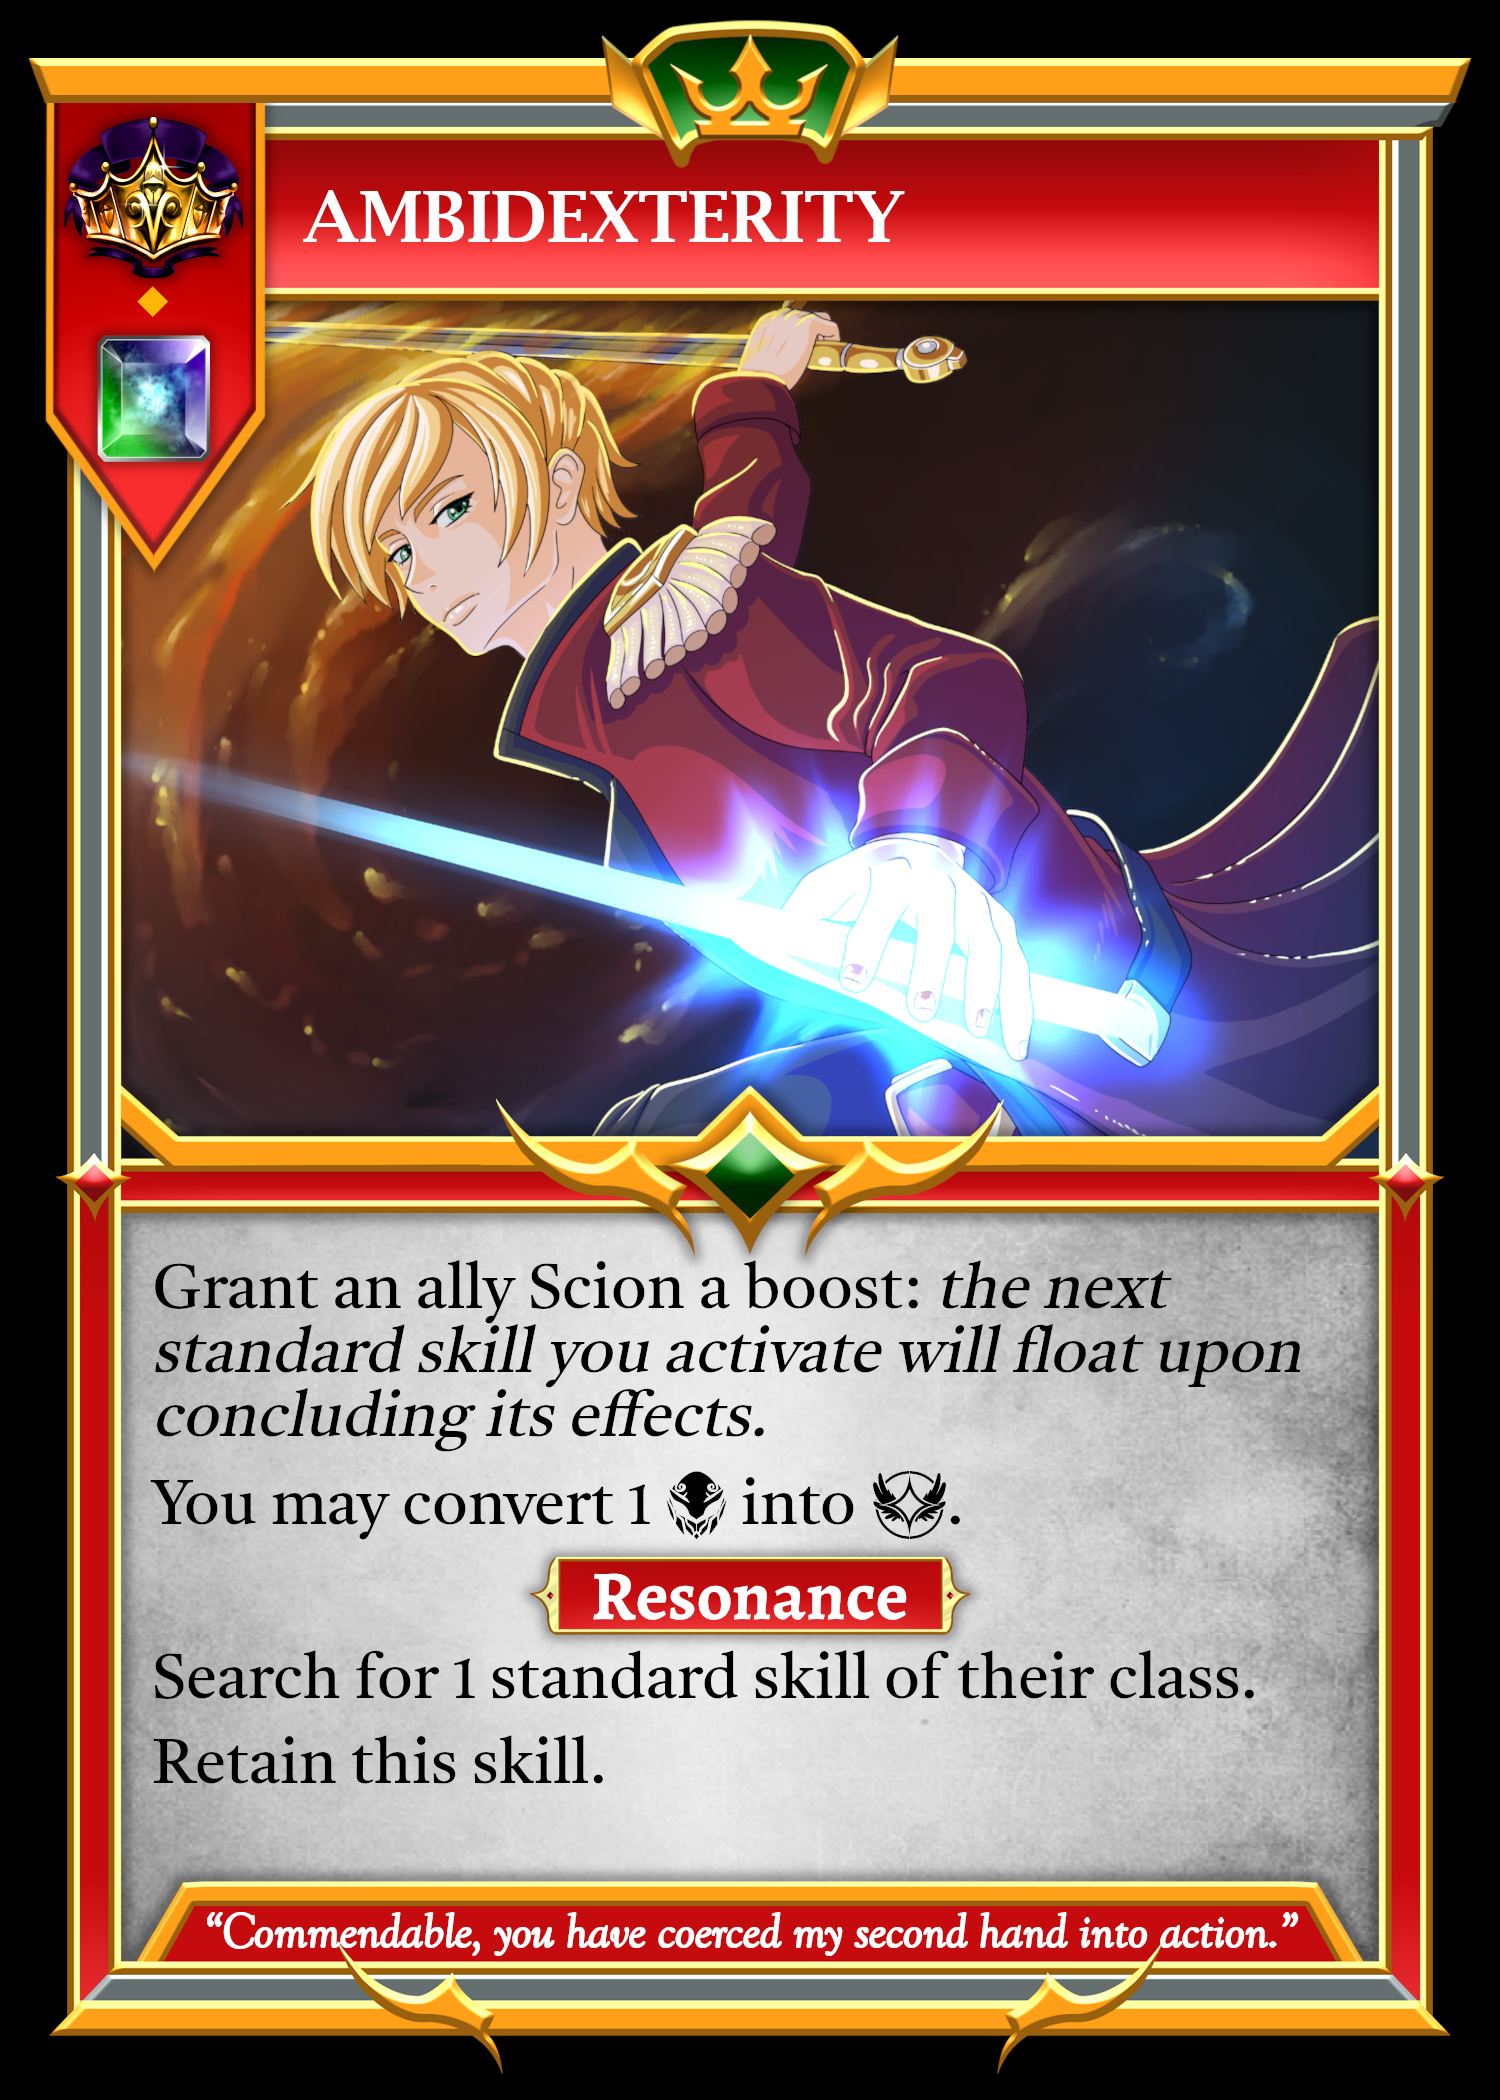
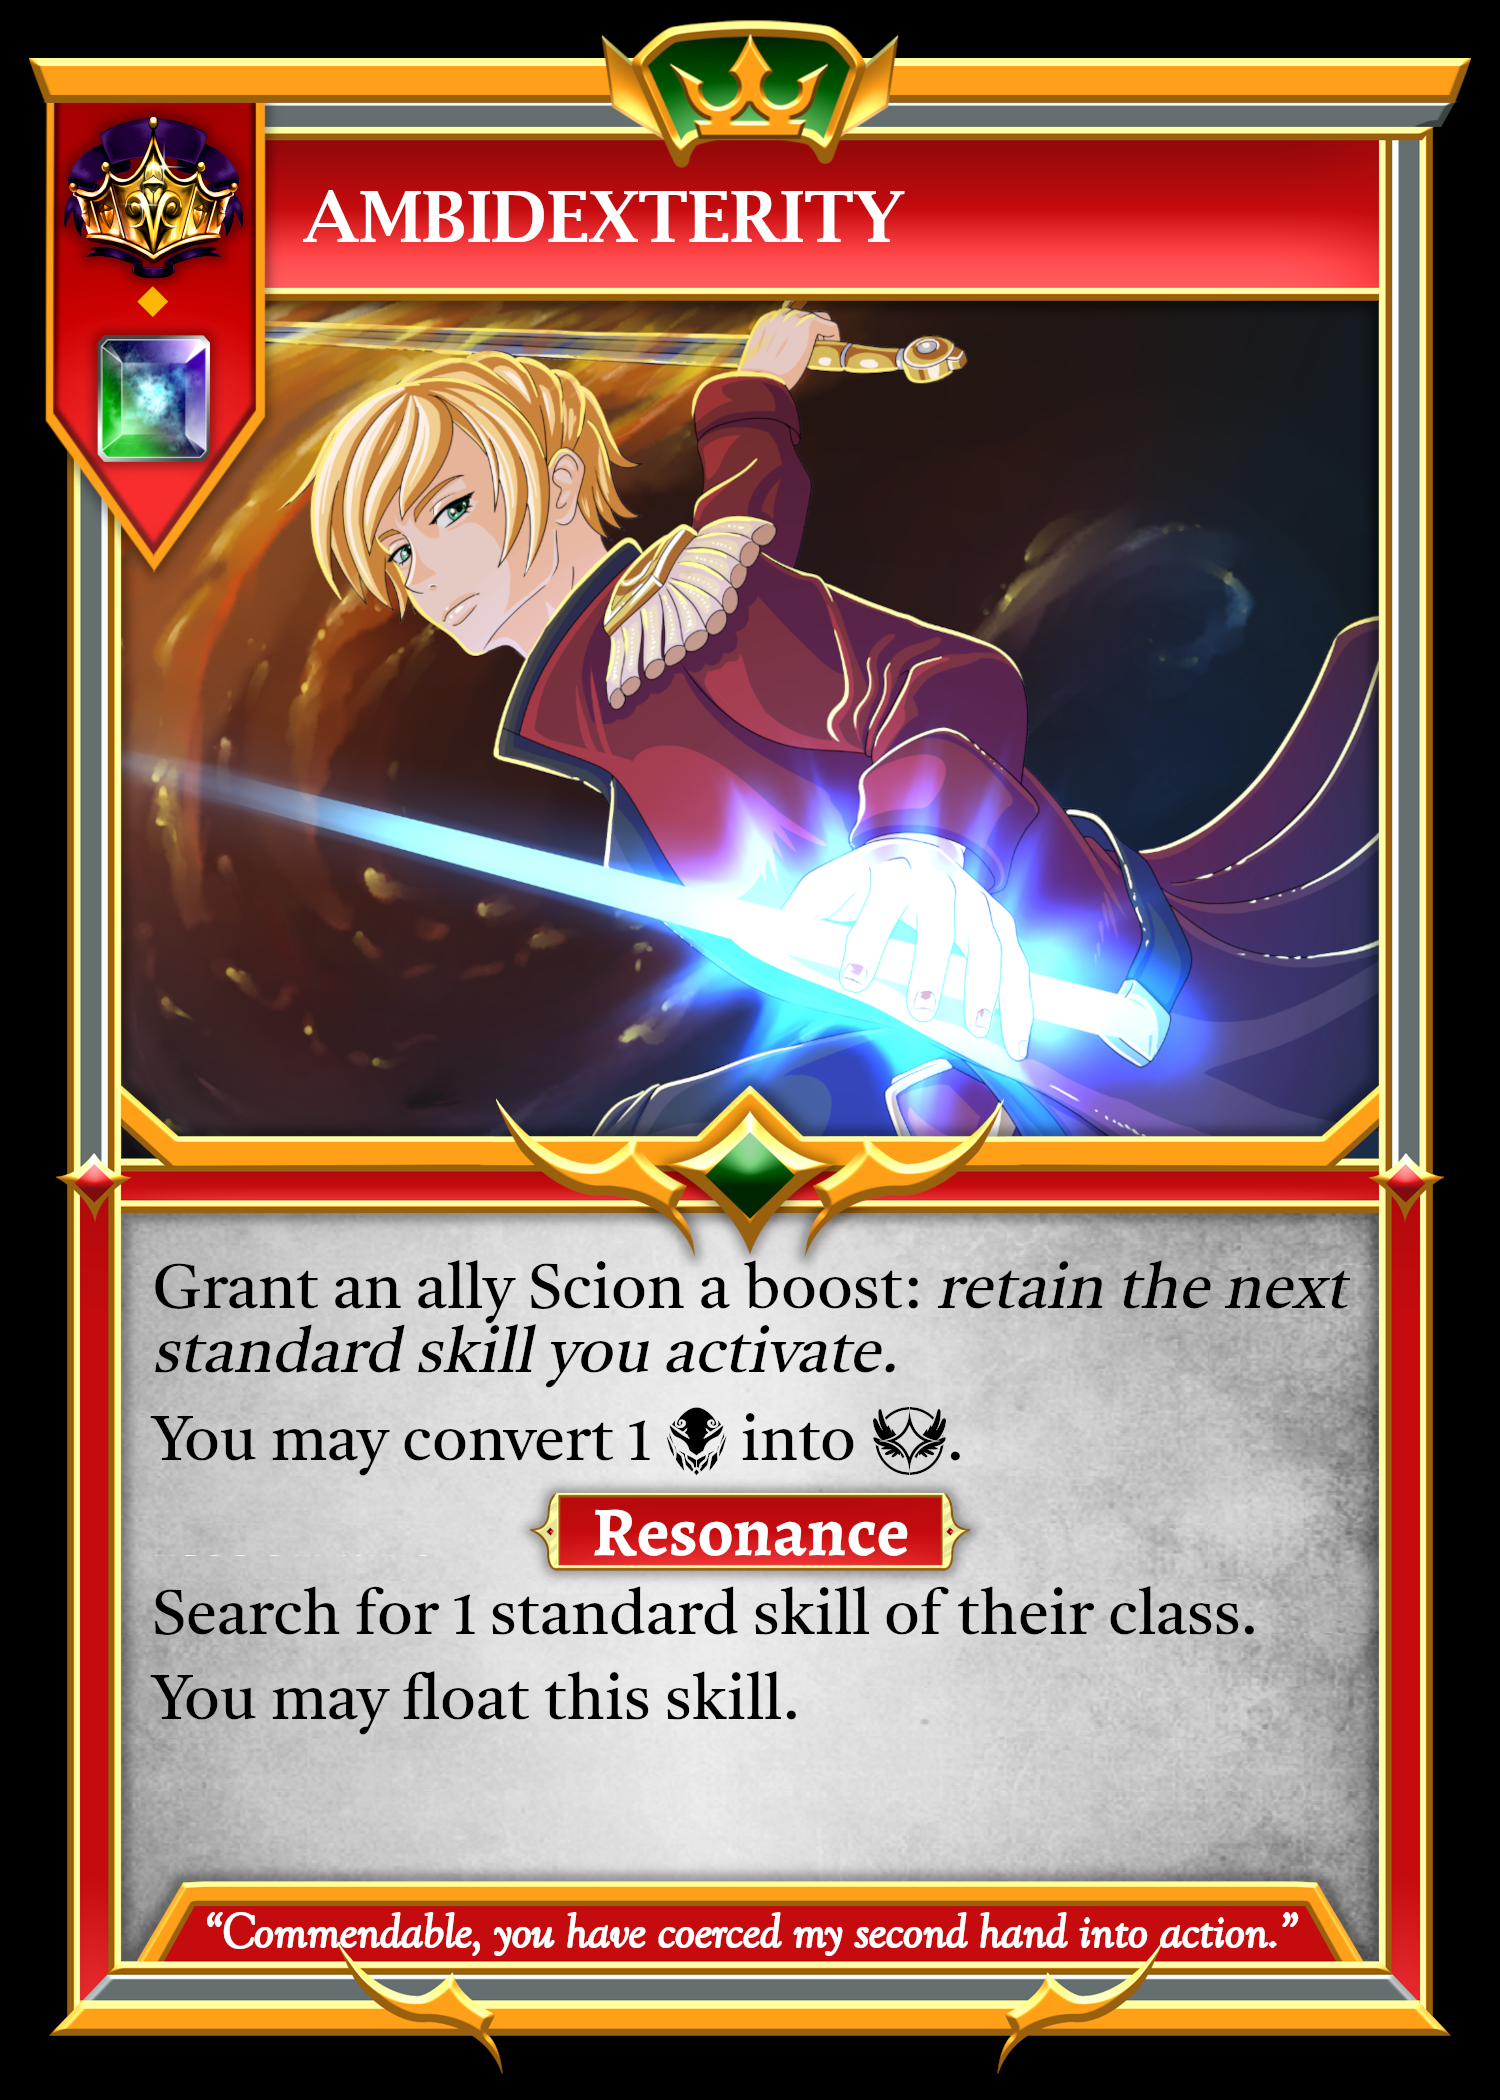
buffed Chain lightning and Ambidexterity

Changed region(s): [[0.092, 0.5881, 0.8893, 0.8667]]

diff --git a/src/components/modals/SelectSkillReveal.jsx b/src/components/modals/SelectSkillReveal.jsx
@@ -35,6 +35,26 @@ const SelectSkillReveal = (props) => {
     );
   }
 
+  const handleCharge = () => {
+    let newGameState = JSON.parse(JSON.stringify(localGameState));
+    let unit = newGameState[props.unit.player].units[props.unit.unitIndex];
+
+    //end
+    newGameState.currentResolution.pop();
+
+    unit.charge -= 1;
+
+    newGameState.currentResolution.push({
+      resolution: "Lightning Skill",
+      resolution2: "Chain Lightning4",
+      unit: props.unit,
+      adjacentEnemies: props.details.adjacentEnemies,
+    });
+
+    dispatch(updateState(newGameState));
+    props.updateFirebase(newGameState);
+  };
+
   const handleSelect = () => {
     let newGameState = JSON.parse(JSON.stringify(localGameState));
     let unit = newGameState[props.unit.player].units[props.unit.unitIndex];
@@ -86,6 +106,19 @@ const SelectSkillReveal = (props) => {
 
         revealTitle = "Upheaval";
         revealMessage = "Your opponent has revealed 1 Land Skill";
+        break;
+
+      case "Chain Lightning Blast":
+        newGameState.currentResolution.push({
+          resolution: "Lightning Skill",
+          resolution2: "Chain Lightning4",
+          unit: props.unit,
+          adjacentEnemies: props.details.adjacentEnemies,
+        });
+
+        revealTitle = "Chain Lightning";
+        revealMessage = "Your opponent has revealed 1 Lightning Skill";
+
         break;
 
       case "Valiant Spark":
@@ -204,25 +237,35 @@ const SelectSkillReveal = (props) => {
         </div>
 
         <div className="modalBottomButton">
-          {selectedSkill === null && (
-            <button
-              className={`choiceButton ${
-                canClick("Skip Button") ? "demoClick" : ""
-              }`}
-              onClick={() => {
-                handleSkip();
-                handleUpdateDemoGuide();
-              }}
-            >
-              Skip
-            </button>
-          )}
+          <div className="multi-option-buttons">
+            {selectedSkill === null && (
+              <button
+                className={`choiceButton ${
+                  canClick("Skip Button") ? "demoClick" : ""
+                }`}
+                onClick={() => {
+                  handleSkip();
+                  handleUpdateDemoGuide();
+                }}
+              >
+                Skip
+              </button>
+            )}
 
-          {selectedSkill !== null && (
-            <button className="choiceButton" onClick={() => handleSelect()}>
-              Select
-            </button>
-          )}
+            {selectedSkill === null &&
+              props.details.reason === "Chain Lightning Blast" &&
+              props.unit.charge > 0 && (
+                <button className="choiceButton" onClick={() => handleCharge()}>
+                  Spend 1 Charge
+                </button>
+              )}
+
+            {selectedSkill !== null && (
+              <button className="choiceButton" onClick={() => handleSelect()}>
+                Select
+              </button>
+            )}
+          </div>
         </div>
       </div>
     </div>

diff --git a/src/hooks/useRecurringEffects.jsx b/src/hooks/useRecurringEffects.jsx
@@ -104,7 +104,7 @@ export const useRecurringEffects = () => {
 
     let conclusion = "discard";
     if (unit.boosts.ambidexterity) {
-      conclusion = "float";
+      conclusion = "retain";
       delete newGameState[unit.player].units[unit.unitIndex].boosts
         .ambidexterity;
     }
@@ -299,7 +299,7 @@ export const useRecurringEffects = () => {
 
     let conclusion = "discard";
     if (unit.boosts.ambidexterity) {
-      conclusion = "float";
+      conclusion = "retain";
       delete newGameState[unit.player].units[unit.unitIndex].boosts
         .ambidexterity;
     }
@@ -416,7 +416,7 @@ export const useRecurringEffects = () => {
 
     let conclusion = "discard";
     if (unit.boosts.ambidexterity) {
-      conclusion = "float";
+      conclusion = "retain";
       delete newGameState[unit.player].units[unit.unitIndex].boosts
         .ambidexterity;
     }
@@ -930,7 +930,7 @@ export const useRecurringEffects = () => {
 
     let conclusion = "discard";
     if (unit.boosts.ambidexterity) {
-      conclusion = "float";
+      conclusion = "retain";
       delete newGameState[unit.player].units[unit.unitIndex].boosts
         .ambidexterity;
     }
@@ -981,7 +981,7 @@ export const useRecurringEffects = () => {
 
     let conclusion = "discard";
     if (unit.boosts.ambidexterity) {
-      conclusion = "float";
+      conclusion = "retain";
       delete newGameState[unit.player].units[unit.unitIndex].boosts
         .ambidexterity;
     }
@@ -1125,7 +1125,7 @@ export const useRecurringEffects = () => {
 
     let conclusion = "discard";
     if (unit.boosts.ambidexterity) {
-      conclusion = "float";
+      conclusion = "retain";
       delete newGameState[unit.player].units[unit.unitIndex].boosts
         .ambidexterity;
     }
@@ -1393,7 +1393,7 @@ export const useRecurringEffects = () => {
 
     let conclusion = "discard";
     if (unit.boosts.ambidexterity) {
-      conclusion = "float";
+      conclusion = "retain";
       delete newGameState[unit.player].units[unit.unitIndex].boosts
         .ambidexterity;
     }
@@ -1653,7 +1653,7 @@ export const useRecurringEffects = () => {
           "Sovereign Resonant Skill",
           "Activating Ambidexterity",
           resonator,
-          "retain"
+          "float"
         );
 
       case "SB-03":
@@ -1697,7 +1697,7 @@ export const useRecurringEffects = () => {
 
     let conclusion = "discard";
     if (unit.boosts.ambidexterity) {
-      conclusion = "float";
+      conclusion = "retain";
       delete newGameState[unit.player].units[unit.unitIndex].boosts
         .ambidexterity;
     }

diff --git a/src/components/modals/YouMaySpend1Skill.jsx b/src/components/modals/YouMaySpend1Skill.jsx
@@ -442,39 +442,41 @@ const YouMaySpend1Skill = (props) => {
         </div>
 
         <div className="modalBottomButton">
-          {selectedSkill === null && (
-            <button
-              className={`choiceButton ${
-                canClick("Skip Button") ? "demoClick" : ""
-              }`}
-              onClick={() => {
-                handleSkip();
-                handleUpdateDemoGuide();
-              }}
-            >
-              Skip
-            </button>
-          )}
+          <div className="multi-option-buttons">
+            {selectedSkill === null && (
+              <button
+                className={`choiceButton ${
+                  canClick("Skip Button") ? "demoClick" : ""
+                }`}
+                onClick={() => {
+                  handleSkip();
+                  handleUpdateDemoGuide();
+                }}
+              >
+                Skip
+              </button>
+            )}
 
-          {selectedSkill === null && props.unit && props.unit.blossom > 0 && (
-            <button className="choiceButton" onClick={() => handleBlossom()}>
-              Spend 1 Blossom
-            </button>
-          )}
+            {selectedSkill === null && props.unit && props.unit.blossom > 0 && (
+              <button className="choiceButton" onClick={() => handleBlossom()}>
+                Spend 1 Blossom
+              </button>
+            )}
 
-          {selectedSkill !== null && (
-            <button
-              className={`choiceButton ${
-                canClick("Select Button") ? "demoClick" : ""
-              }`}
-              onClick={() => {
-                handleSelect();
-                handleUpdateDemoGuide();
-              }}
-            >
-              Select
-            </button>
-          )}
+            {selectedSkill !== null && (
+              <button
+                className={`choiceButton ${
+                  canClick("Select Button") ? "demoClick" : ""
+                }`}
+                onClick={() => {
+                  handleSelect();
+                  handleUpdateDemoGuide();
+                }}
+              >
+                Select
+              </button>
+            )}
+          </div>
         </div>
       </div>
     </div>

diff --git a/src/hooks/useSkillEffects.jsx b/src/hooks/useSkillEffects.jsx
@@ -1359,7 +1359,29 @@ export const useSkillEffects = () => {
     //end "Chain Lightning2" resolution
     newGameState.currentResolution.pop();
 
-    if (unit !== null && !isMuted(unit) && unit.charge > 0) {
+    // if (unit !== null && !isMuted(unit) && unit.charge > 0) {
+    //   //allies of victim
+    //   let adjacentEnemies = getZonesWithAllies(victim, 1);
+
+    //   if (adjacentEnemies.length > 0) {
+    //     newGameState.currentResolution.push({
+    //       resolution: "Lightning Skill",
+    //       resolution2: "Chain Lightning3",
+    //       unit: unit,
+    //       details: {
+    //         reason: "Chain Lightning Blast",
+    //         title: "Chain Lightning",
+    //         message:
+    //           "You may spend 1 Charge to blast an enemy adjacent to the previous one.",
+    //         no: "Skip",
+    //         yes: "Blast",
+    //         adjacentEnemies: adjacentEnemies,
+    //       },
+    //     });
+    //   }
+    // }
+
+    if (unit !== null && !isMuted(unit)) {
       //allies of victim
       let adjacentEnemies = getZonesWithAllies(victim, 1);
 
@@ -1369,12 +1391,11 @@ export const useSkillEffects = () => {
           resolution2: "Chain Lightning3",
           unit: unit,
           details: {
-            reason: "Chain Lightning Blast",
             title: "Chain Lightning",
             message:
-              "You may spend 1 Charge to blast an enemy adjacent to the previous one.",
-            no: "Skip",
-            yes: "Blast",
+              "You may reveal 1 Lightning skill or spend 1 Charge to blast an enemy adjacent to the previous one.",
+            restriction: ["05-01", "05-02", "05-03", "05-04"],
+            reason: "Chain Lightning Blast",
             adjacentEnemies: adjacentEnemies,
           },
         });
@@ -1391,8 +1412,8 @@ export const useSkillEffects = () => {
     //end "Chain Lightning4" resolution
     newGameState.currentResolution.pop();
 
-    //consume charge
-    unit.charge -= 1;
+    //consume charge --- no longer assumed
+    // unit.charge -= 1;
 
     newGameState[unitInfo.player].units[unitInfo.unitIndex] = unit;
 

diff --git a/src/components/Board.jsx b/src/components/Board.jsx
@@ -2563,8 +2563,16 @@ const Board = (props) => {
           case "Chain Lightning3":
             return (
               <>
-                {self === lastResolution.unit.player && !hideModal && (
+                {/* {self === lastResolution.unit.player && !hideModal && (
                   <YouMayNoYes
+                    unit={lastResolution.unit}
+                    details={lastResolution.details}
+                    updateFirebase={updateFirebase}
+                    hideOrRevealModale={hideOrRevealModale}
+                  />
+                )} */}
+                {self === lastResolution.unit.player && !hideModal && (
+                  <SelectSkillReveal
                     unit={lastResolution.unit}
                     details={lastResolution.details}
                     updateFirebase={updateFirebase}
@@ -4886,6 +4894,8 @@ const Board = (props) => {
         newGameState[player].skillFloat = newGameState[player].skillFloat + 1;
       } else if (conclusion === "shatter") {
         newGameState[player].skillShattered.push(skill);
+      } else if (conclusion === "retain") {
+        newGameState[player].skillHand.push(skill);
       }
 
       if (unitInfo) {

diff --git a/src/components/modals/YouMayNoYes.jsx b/src/components/modals/YouMayNoYes.jsx
@@ -217,14 +217,14 @@ const YouMayNoYes = (props) => {
         );
         break;
 
-      case "Chain Lightning Blast": // "ChainLightning3"
-        newGameState.currentResolution.push({
-          resolution: "Lightning Skill",
-          resolution2: "Chain Lightning4",
-          unit: props.unit,
-          adjacentEnemies: props.details.adjacentEnemies,
-        });
-        break;
+      // case "Chain Lightning Blast": // "ChainLightning3"
+      //   newGameState.currentResolution.push({
+      //     resolution: "Lightning Skill",
+      //     resolution2: "Chain Lightning4",
+      //     unit: props.unit,
+      //     adjacentEnemies: props.details.adjacentEnemies,
+      //   });
+      //   break;
 
       case "Zip and Zap Shield": // "Zip And Zap3"
         unit.charge -= 1;

diff --git a/src/components/modals/Modal.css b/src/components/modals/Modal.css
@@ -558,21 +558,6 @@
     font-size: 23px;
 }
 
-.choiceTitle {
-    color: #333333;
-    font-family: "Times New Roman", Times, serif;
-    /* font-size: 40px; */
-    font-size: 45px;
-    line-height: 135%;
-    position: relative;
-    align-self: left;
-    padding: 0px 0px 10px;
-}
-
-.smallerTitle{
-    font-size: 30px;
-}
-
 .choiceButton{
     width: fit-content;
     /* margin: 4px; */
